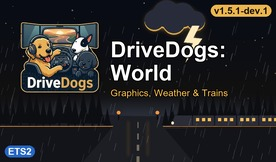
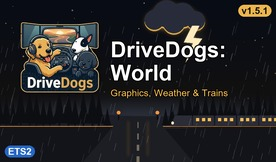
release world 1.5.1 after the playtest: cip train sounds 1.62, kass v10.9 and the realistic rain 5.2.1 re-release
The 1.5.1-dev.1 playtest (2026-11-08, 44 min, Switzerland and France) exited cleanly with no new
World-caused error. The one World line it found, a long box hedge past the 64k curve vertex limit, is
DBM Vegetation's from 1.5.0; the maintainer keeps DBM's hedge.

- version 1.5.1, cover badge v1.5.1
- README: current content v1.5.1

Changed region(s): [[0.7536, 0.0, 0.9565, 0.1235]]

diff --git a/README.md b/README.md
@@ -4,7 +4,7 @@ ETS2 mod for the world around the road, built as a local **megapack** with the `
 `scs-mod-developer` agent profile. This repo holds only configuration and tools. The mod is built from the
 extracted base game, subscribed Workshop items and one local archive. It is never redistributed.
 
-Current content (v1.5.0, ETS2 1.62.1.0):
+Current content (v1.5.1, ETS2 1.62.1.0):
 
 - **Graphics** from Juninho944 (Weather_3.9, Asphalt_improved, grass_4.0_lite, tree_improved_4k), DIOX (Beautiful
   Nature), Darkcaptain (Realistic Rain) and DBM (Vegetation, Terrain Textures, Guard Rails 4K, World & Buildings HD;
